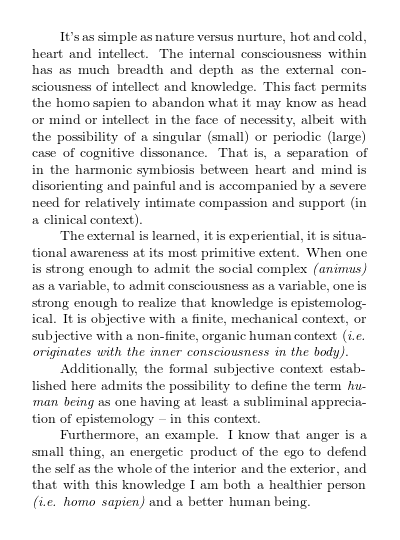
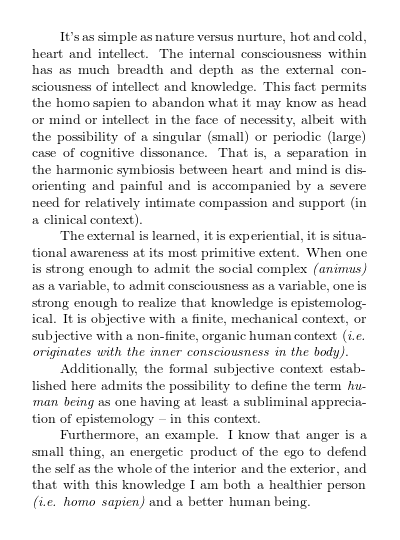
nature versus nurture

Changed region(s): [[0.09, 0.2667, 0.93, 0.3556]]

diff --git a/journal-20161212-2.tex b/journal-20161212-2.tex
@@ -6,10 +6,10 @@ depth as the external consciousness of intellect and knowledge.  This
 fact permits the homo sapien to abandon what it may know as head or
 mind or intellect in the face of necessity, albeit with the
 possibility of a singular (small) or periodic (large) case of
-cognitive dissonance.  That is, a separation of in the harmonic
-symbiosis between heart and mind is disorienting and painful and is
-accompanied by a severe need for relatively intimate compassion and
-support (in a clinical context).
+cognitive dissonance.  That is, a separation in the harmonic symbiosis
+between heart and mind is disorienting and painful and is accompanied
+by a severe need for relatively intimate compassion and support (in a
+clinical context).
 
 The external is learned, it is experiential, it is situational
 awareness at its most primitive extent.  When one is strong enough to
